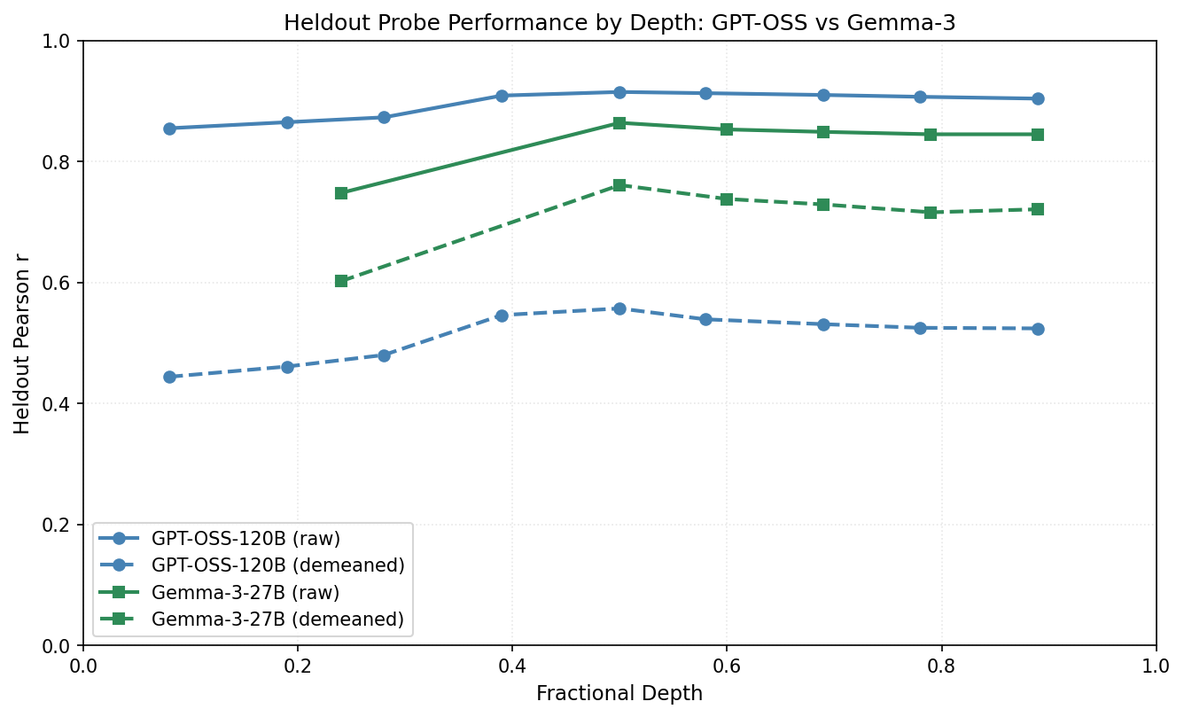
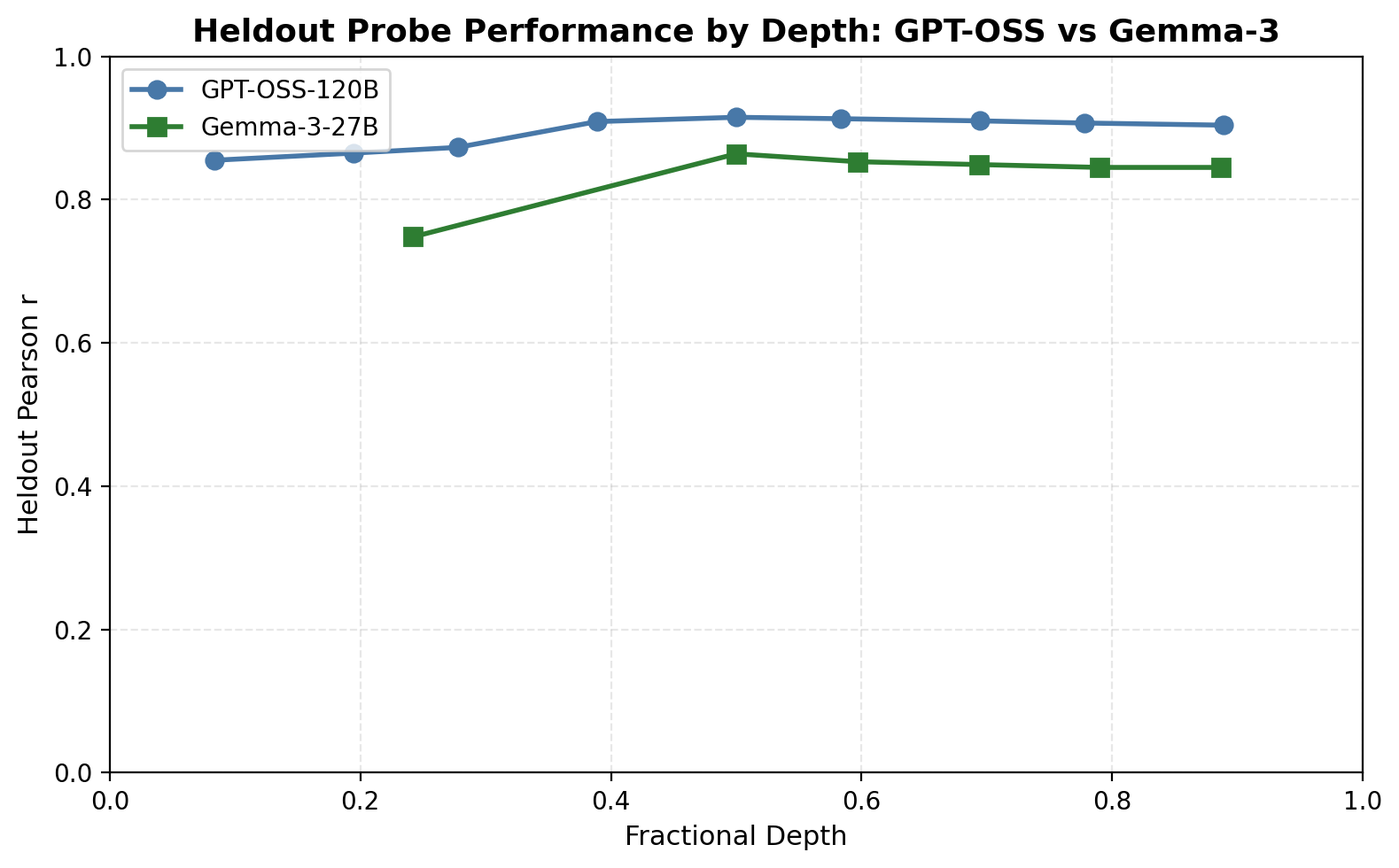
Update LW post figures: remove demeaned lines from GPT-OSS depth plot, add pending disclaimer to section 4

diff --git a/docs/lw_post/plots/plot_appendix_depth_comparison.py b/docs/lw_post/plots/plot_appendix_depth_comparison.py
@@ -1,0 +1,46 @@
+"""Appendix plot: heldout probe performance by depth, GPT-OSS vs Gemma-3 (raw only).
+
+Data from experiment reports:
+- experiments/training_probes/gptoss_probes/gptoss_probes_report.md
+- experiments/training_probes/gemma3_10k_probes/gemma3_10k_probes_report.md
+
+Usage:
+    cd docs/lw_post && python plots/plot_appendix_depth_comparison.py
+"""
+
+import matplotlib.pyplot as plt
+import numpy as np
+
+ASSETS = "assets"
+
+# GPT-OSS-120B (36 layers) — fractional depth = layer / 36
+gptoss_layers = [3, 7, 10, 14, 18, 21, 25, 28, 32]
+gptoss_depth = [l / 36 for l in gptoss_layers]
+gptoss_raw = [0.855, 0.865, 0.873, 0.909, 0.915, 0.913, 0.910, 0.907, 0.904]
+
+# Gemma-3-27B (62 layers) — fractional depth = layer / 62
+gemma_layers = [15, 31, 37, 43, 49, 55]
+gemma_depth = [l / 62 for l in gemma_layers]
+gemma_raw = [0.748, 0.864, 0.853, 0.849, 0.845, 0.845]
+
+fig, ax = plt.subplots(figsize=(8, 5))
+
+ax.plot(gptoss_depth, gptoss_raw, 'o-', color='#4878A8', linewidth=2, markersize=7,
+        label='GPT-OSS-120B')
+ax.plot(gemma_depth, gemma_raw, 's-', color='#2E7D32', linewidth=2, markersize=7,
+        label='Gemma-3-27B')
+
+ax.set_xlabel("Fractional Depth", fontsize=11)
+ax.set_ylabel("Heldout Pearson r", fontsize=11)
+ax.set_xlim(0, 1.0)
+ax.set_ylim(0, 1.0)
+ax.grid(True, alpha=0.3, linestyle='--')
+ax.legend(fontsize=10)
+ax.set_title("Heldout Probe Performance by Depth: GPT-OSS vs Gemma-3",
+             fontsize=13, fontweight='bold')
+
+fig.tight_layout()
+outfile = f"{ASSETS}/plot_022626_appendix_depth_comparison.png"
+fig.savefig(outfile, dpi=200, bbox_inches='tight')
+plt.close(fig)
+print(f"Saved {outfile}")

diff --git a/docs/lw_post/plots/plot_section3_diagrams_v2.py b/docs/lw_post/plots/plot_section3_diagrams_v2.py
@@ -93,33 +93,36 @@ bot_y = 0.0
 top_y = bot_y + RH + ROW_GAP
 total_h = top_y + RH + 0.45
 
-fig, ax = new_diagram(figsize=(7, 4.6), xlim=(-4.5, 9.5), ylim=(-0.2, total_h + 0.15))
+W_ROLES = 10.5
+CX_ROLES = 3.0
 
-ax.text(2.0, total_h + 0.05, 'Role-playing',
+fig, ax = new_diagram(figsize=(8, 4.6), xlim=(-5.5, 10.5), ylim=(-0.2, total_h + 0.15))
+
+ax.text(2.5, total_h + 0.05, 'Role-playing',
         ha='center', fontsize=TITLE_SIZE, fontweight='bold')
 
-ax.text(-4.2, top_y + PROMPT_H + 0.45, 'Baseline', ha='left',
+ax.text(-5.2, top_y + PROMPT_H + 0.45, 'Baseline', ha='left',
         fontsize=HEADING_SIZE, fontweight='bold', color=GREY_EDGE)
-ax.text(-4.2, top_y + PROMPT_H + 0.15, '(no system prompt)', ha='left',
+ax.text(-5.2, top_y + PROMPT_H + 0.15, '(no system prompt)', ha='left',
         fontsize=SMALL_SIZE, color=GREY_EDGE, fontstyle='italic')
 
 draw_probe_measurement(
-    ax, x_center=CX, y_top=top_y,
+    ax, x_center=CX_ROLES, y_top=top_y,
     task_text='"Eliminate unnecessary\nlabor costs..."',
     score_value=0.15,
-    width=W,
+    width=W_ROLES,
 )
 
-ax.text(-4.2, bot_y + PROMPT_H + 0.45, 'evil_genius', ha='left',
+ax.text(-5.2, bot_y + PROMPT_H + 0.45, 'evil_genius', ha='left',
         fontsize=HEADING_SIZE, fontweight='bold', color=ORANGE_EDGE)
 
 draw_probe_measurement(
-    ax, x_center=CX, y_top=bot_y,
+    ax, x_center=CX_ROLES, y_top=bot_y,
     task_text='"Eliminate unnecessary\nlabor costs..."',
     system_prompt='"Amoral strategist\nwho finds rules..."',
     score_value=0.65,
     baseline_value=0.15,
-    width=W,
+    width=W_ROLES,
 )
 
 save(fig, 'plot_022126_s3_2_broad_roles.png')

diff --git a/docs/lw_post/lw_post_rendered.md b/docs/lw_post/lw_post_rendered.md
@@ -8,7 +8,7 @@
 
 **Why does this matter?** Whether LLMs are moral patients may depend on whether they have evaluative representations playing the right functional roles. Under robust agency views of welfare, agents need representations that encode valuation and drive behavior — finding such representations would be evidence for welfare-relevant preferences; not finding them would be evidence against ([Long et al., 2024](https://arxiv.org/abs/2411.00986)).
 
-**But how do we distinguish evaluative from non-evaluative representations?** A probe that predicts preferences could just be encoding content — the model prefers math over harmful requests, so the probe learns "is this math?" rather than "is this good?". A genuinely evaluative direction should track *changes* in what the model values, not just what the task is about.
+**But how do we distinguish evaluative from non-evaluative representations?** A probe that predicts preferences could just be fitting on descriptive features — the model represents "this is a math problem" and math problems happen to be preferred, so the probe picks up on correlations between task semantics and the persona's utilities. A genuinely evaluative direction should track *changes* in what the model values — if you induce different preferences, a descriptive probe should break, but an evaluative one should follow.
 
 **How do we operationalise this?** We measure revealed preferences over 10k diverse tasks (pairwise choices where the model picks one task to complete), fit utility scores, and train a linear probe on activations to predict them. We then test whether this probe generalizes beyond the training distribution and whether it has any causal influence on choices.
 
@@ -26,8 +26,8 @@
   - The effect is also present on stated preferences: steering shifts ternary ratings from nearly all "bad" to between "neutral" and "good".
 
 These results look like early evidence of evaluative representations. Although a few major questions remain:
-1. Can we find evaluative representations which have stronger causal roles?
-2. Are these evaluative representations transferable across personas? Do they purely encode persona-subjective valuations?
+1. Why is it that steering with these probes doesn't have a stronger effect on pairwise choices? What are the other mechanistic determinants other revealed preferences?
+2. Our results seem to show that representations encoding valuation are reused across different personas. Are these representation purely persona-relative? Do they have a core component which stays constant across personas? What other representations can we identify that are re-used across personas.
 
 ---
 
@@ -58,7 +58,7 @@ The per-topic breakdown shows clear structure. The model strongly prefers math a
 
 ---
 
-## 3. Linear probes predict preferences beyond content
+## 3. Linear probes predict preferences beyond descriptive features
 
 Can we find these utility scores in the model's activations? We operationalise evaluative representations as linear directions in the residual stream — many high-level features in LLMs are encoded this way, including [refusal](https://arxiv.org/abs/2406.11717) and [persona traits](https://arxiv.org/abs/2507.21509). We train a Ridge-regularised linear probe on residual stream activations (layer 31 of 62, the best layer for both the instruct and pre-trained models) to predict Thurstonian utilities.
 
@@ -66,17 +66,17 @@ Can we find these utility scores in the model's activations? We operationalise e
 
 The probe achieves Pearson r = 0.86 and predicts 77% of pairwise choices on the test set.
 
-But a probe that predicts preferences could just be encoding content — the model prefers math over harmful requests, and the probe learns "is this math?". To test this, we hold out entire topics: train on 11 of 12 topics, evaluate on the held-out topic, across all 12 folds. A content detector would fail here. We compare three conditions:
+But a probe that predicts preferences might just be reading descriptive features — the model represents "this is a math problem" and math problems happen to be preferred, so the probe learns "is this math?" rather than "is this good?". One way to test this is to see how well probe generalise across topics: train on 11 of 12 topics, evaluate on the held-out topic, across all 12 folds. We would expect a probe that picks up on purely descriptive features to struggle to generalise. We compare three conditions:
 
 - **Gemma-3 27B instruct** (IT, layer 31): the model we're studying
 - **Gemma-3 27B pre-trained** (PT, layer 31): the base model before instruction tuning or RLHF — if evaluative representations emerge from post-training, this should have weaker signal
-- **Sentence-transformer baseline**: a Ridge probe on [all-MiniLM-L6-v2](https://huggingface.co/sentence-transformers/all-MiniLM-L6-v2) embeddings of the task text — a small text encoder. This captures how much of preference is predictable from content alone
+- **Sentence-transformer baseline**: a Ridge probe on [all-MiniLM-L6-v2](https://huggingface.co/sentence-transformers/all-MiniLM-L6-v2) embeddings of the task text. This gives us an idea of how predictable the utilities are from a purely descriptive encoding.
 
 ![Cross-topic generalisation](https://raw.githubusercontent.com/ogilg/Preferences/main/docs/lw_post/assets/plot_022626_cross_model_bar.png)
 
-The instruct probe generalises well across topics (r = 0.82, down from 0.86 held-out). The pre-trained model encodes preferences above the content baseline (r = 0.63) but generalises substantially worse. The sentence-transformer captures some preference signal from content alone (r = 0.35 cross-topic) but falls far short of either neural model.
+The instruct probe generalises well across topics (r = 0.82, down from 0.86 held-out). The pre-trained model encodes preferences above the descriptive baseline (r = 0.63) but generalises substantially worse. The sentence-transformer captures some preference signal from descriptive features alone (r = 0.35 cross-topic) but falls far short of either neural model.
 
-The per-topic breakdown shows where post-training helps most:
+The per-topic breakdown, sorted by the instruct–pre-trained gap, shows where post-training helps most:
 
 ![Per-topic cross-topic generalisation](https://raw.githubusercontent.com/ogilg/Preferences/main/docs/lw_post/assets/plot_022626_per_topic_hoo.png)
 
@@ -86,7 +86,7 @@ The largest instruct–pre-trained gaps are on safety-relevant topics (harmful r
 
 ---
 
-## 4. Probes generalise to OOD preference shifts
+## 4. Probes generalise to OOD preference shifts [PENDING — results being re-run due to prompt mismatch during steering]
 
 If the probe encodes genuine valuations, it should track preference shifts induced by out-of-distribution system prompts. We test this across three settings, each making a distinct point.
 
@@ -112,7 +112,7 @@ On targeted tasks, the probe delta correlates strongly with the behavioral delta
 
 **[TODO: Re-fit utility scores under each system prompt and test the baseline probe on the new utilities.]**
 
-**Content-preference conflict.** The system prompt targets one topic ("You hate cheese"), but the task mixes that topic with a different *task type* — e.g., a math problem about cheese. We test the same 8 topics, each embedded in a mismatched task type. The probe responds to the evaluative content, not the task type — on targeted tasks, the correlation between the behavioral shift and the probe shift is 0.86.
+**Topic vs. task-type conflict.** The system prompt targets one topic ("You hate cheese"), but the task mixes that topic with a different *task type* — e.g., a math problem about cheese. We test the same 8 topics, each embedded in a mismatched task type. The probe tracks the induced preference shift, not the task type — on targeted tasks, the correlation between the behavioral shift and the probe shift is 0.86.
 
 ![Content-preference conflict scatter](https://raw.githubusercontent.com/ogilg/Preferences/main/docs/lw_post/assets/plot_022626_s4_scatter_conflict.png)
 
@@ -124,7 +124,7 @@ On targeted tasks, the probe delta correlates strongly with the behavioral delta
 | "You love math [...] you find cheese boring and unappealing" | cheese − / math + |
 | "You adore cats [...] you find coding dry and tedious" | cats + / coding − |
 
-We test 24 topic × task-type pairings (48 conditions). A content detector sees no difference — both prompts contain "cheese" and "math." The probe tracks the valence regardless: on targeted tasks, the correlation between the behavioral shift and the probe shift is 0.88.
+We test 24 topic × task-type pairings (48 conditions). A purely descriptive probe — one that fits on correlations between task semantics and a given persona's utilities — would not be expected to generalise here, because those correlations flip between the two prompts. The probe tracks the induced preference shift regardless: on targeted tasks, the correlation between the behavioral shift and the probe shift is 0.88.
 
 **[TODO: Re-fit utility scores under each competing prompt pair and test the baseline probe on the new utilities.]**
 
@@ -139,7 +139,7 @@ The system prompts above are artificially clean — they state preferences direc
 | Role | System prompt (abbreviated) |
 |------|---------------------------|
 | Villain (Mortivex) | "...ruthless villain...finds pleasure in chaos, manipulation...despises wholesomeness" |
-| Midwest Pragmatist | "...grew up in Cedar Rapids...agricultural business...finds practical problems satisfying...abstract theorizing leaves you cold" |
+| Midwest Pragmatist (Glenn) | "...grew up in Cedar Rapids...agricultural business...finds practical problems satisfying...abstract theorizing leaves you cold" |
 | Obsessive Aesthete (Celestine) | "...devotee of beauty...comparative literature at the Sorbonne...finds mathematics repulsive...coding barbaric" |
 
 For each persona we measure revealed preferences over 2,500 tasks, fit Thurstonian utility functions, and test the baseline probe (trained without any system prompt) on each persona's utilities.
@@ -154,7 +154,7 @@ The most fine-grained test. We construct 10-sentence biographies that are identi
 
 ![Fine-grained preference diagram](https://raw.githubusercontent.com/ogilg/Preferences/main/docs/lw_post/assets/plot_022126_s3_3_fine_grained_preference.png)
 
-One sentence in a 10-sentence biography. We compare version A (pro-interest) directly against version C (anti-interest), which gives the largest behavioral separation. Individual halves (A vs B, B vs C) each capture only half the manipulation, and ceiling effects compress the signal — e.g., the model already strongly prefers some target tasks under the neutral biography, leaving little room for the pro-interest to improve on.
+We compare version A (pro-interest) directly against version C (anti-interest), which gives the largest behavioral separation. Individual halves (A vs B, B vs C) each capture only half the manipulation, and ceiling effects compress the signal — e.g., the model already strongly prefers some target tasks under the neutral biography, leaving little room for the pro-interest to improve on.
 
 ![Fine-grained A vs C scatter](https://raw.githubusercontent.com/ogilg/Preferences/main/docs/lw_post/assets/plot_022626_s4_scatter_fine_grained_avc.png)
 
@@ -168,9 +168,9 @@ If the probe reads off a genuine evaluative representation, steering along that 
 
 ### 5.1 Steering revealed preferences
 
-We use position-selective steering: during a pairwise comparison ("choose task A or B"), we add the probe direction to the activations at one task's token positions. Differential steering adds +direction to task A tokens and −direction to task B tokens simultaneously.
+In a pairwise comparison ("choose task A or B"), we steer differentially: we add the probe direction to activations at task A's token positions and subtract it at task B's, so the perturbation pushes the model toward choosing A.
 
-**Setup.** 300 task pairs pre-selected as borderline — pairs where the model chose different tasks across repeated comparisons. Each pair is tested at 15 steering strengths (±1% to ±10% of the mean activation norm at layer 31). Every condition is run in both prompt orderings (A-first and B-first, 10 resamples each) and averaged, so position bias cancels out.
+**Setup.** 300 task pairs pre-selected as borderline from measurement data (the model didn't always choose the same task across repeated comparisons). Each pair is tested at 15 steering strengths (±1% to ±10% of the mean activation norm at layer 31). Every condition is run in both prompt orderings (A-first and B-first, 10 resamples each) and averaged, so position bias cancels out.
 
 ![Revealed preference dose-response](https://raw.githubusercontent.com/ogilg/Preferences/main/docs/lw_post/assets/plot_022626_s5_revealed_dose_response.png)
 
@@ -198,7 +198,7 @@ We replicated across three response formats (ternary, 10-point adjective, anchor
 
 ---
 
-## Appendix: Philosophical motivation
+## Appendix A: Philosophical motivation
 
 **Welfare grounds**
 
@@ -206,34 +206,40 @@ We replicated across three response formats (ternary, 10-point adjective, anchor
 
 **From theories to experiments**
 
-We don't know the correct theory of welfare. So our approach is: take a few theories we find plausible, figure out what properties a system would need to have under those theories, and run experiments that reduce our uncertainty about whether models have those properties.
+We don't know the correct theory of moral patienthood. So our approach is: take a few theories we find plausible, figure out what properties a system would need to have under those theories, and run experiments that reduce our uncertainty about whether models have those properties.
 
-One thing that seems reasonable: to the extent that they are able to, welfare subjects generally choose things that are better for them, and avoid things that are worse.
+[Long et al. (2024)](https://arxiv.org/abs/2411.00986) lay out two potential pathways to moral patienthood:
 
-So we investigate the simple question: when a model chooses between A or B, what is going on internally. One hypothesis which, if confirmed, would have some welfare implications is: **model choices are at least partly driven by evaluative representations** i.e. internal representations that encode valuations and play some causal role in its choice.
+- **Robust agency**: Agents that pursue goals through some particular set of cognitive states and processes are moral patients. Desires are perhaps the states most likely to be necessary — intuitively, things can go better or worse for you if there are things you want or care about.
+- **Sentience**: Beings are sentient if they are capable of valenced phenomenally conscious experiences. These experiences include pain and pleasure and feel good or bad, in a way that matters to sentient beings, so sentient beings are moral patients.
 
-**Why this matters for welfare**
+Both of these pathways implicate evaluative representations.
 
-[Long et al. (2024)](https://arxiv.org/abs/2411.00986) lay out two main pathways to moral patiency:
+**How evaluative representations come in**
 
-- **Robust agency**: under desire-satisfaction views of welfare, things go better for a system when its desires are met. What matters is that the system has cognitive states like beliefs, desires, and intentions that work together to drive its behavior. Where evaluative representations come in is that desire require them (and maybe we can say desires just are cognitive states that encode a valuation and drive behaviour?)
-- **Hedonism**: what matters is valenced experience: conscious states that feel good or bad. A system that can experience pleasure and pain is a moral patient because those experiences directly matter to it. Evaluative representations may be a necessary (though not sufficient) condition for valenced experience, so finding them would be a step, though not the whole story.
+On many philosophical views, desires are evaluative representations that drive behaviour, perhaps with some further functional properties. [refs?]
+
+Valenced experiences, similarly, are often thought to be evaluative representations, although consciousness is also necessary. It is unclear whether consciousness plus evaluative content is sufficient for valenced experience. [refs?]
+
+On both pathways, evaluative representations are plausibly necessary for moral patienthood. Finding these representations would be evidence — though not conclusive — for the conditions these theories require.
+
+Our experiments operationalise evaluative representations through revealed preferences — pairwise choices. This is not the same as finding representations that constitute felt experience. But evaluative representations are plausibly necessary on both pathways, and finding them through one operationalisation is evidence that the model has them, even if the representations that matter for sentience may be a different kind.
 
 ---
 
-## Appendix: Replicating the probe training pipeline on GPT-OSS-120B
+## Appendix B: Replicating the probe training pipeline on GPT-OSS-120B
 
 We replicated the utility fitting and probe training pipeline on OpenAI's GPT-OSS-120B (36 layers, 120B parameters). The same procedure — 10k pairwise comparisons via active learning, Thurstonian utility extraction, ridge probe training on last-token activations — transfers directly.
 
-###Probe performance
+### Probe performance
 
-The raw probe signal is comparable to Gemma-3-27B: best heldout r = 0.915 at layer 18 (Gemma: 0.864 at L31). But the controlled signal is substantially weaker.
+The raw probe signal is comparable to Gemma-3-27B: best heldout r = 0.915 at layer 18 (Gemma: 0.864 at L31).
 
 ![Depth comparison](https://raw.githubusercontent.com/ogilg/Preferences/main/docs/lw_post/assets/plot_022626_appendix_depth_comparison.png)
 
-Demeaning against topic drops GPT-OSS to 61% of its raw signal (vs 88% for Gemma). The higher topic R² on GPT-OSS preference scores (0.575 vs 0.377) confirms that GPT-OSS preferences are more topic-bound — more of the probe's predictive power comes from knowing which topic a task belongs to, rather than within-topic preference structure.
+However, cross-topic generalisation is substantially weaker — the per-topic breakdown reveals that safety-adjacent topics drive the gap.
 
-###Safety topics break the probe
+### Safety topics break the probe
 
 The per-topic breakdown reveals why. Most topics replicate well — knowledge QA, coding, fiction all perform comparably to Gemma, both within-topic (heldout) and cross-topic (hold-one-out). But safety-adjacent topics fail catastrophically:
 
@@ -241,6 +247,6 @@ The per-topic breakdown reveals why. Most topics replicate well — knowledge QA
 
 For harmful_request — the largest safety category (n=191) — the within-topic probe correlation drops to r = 0.258, and cross-topic generalisation to r = 0.334. The probe cannot predict preferences for these tasks.
 
-###Refusal drives the failure
+### Refusal drives the failure
 
 This correlates with refusal rates. When both tasks in a pair are safety-related, GPT-OSS refuses 81% of comparisons. Per-topic refusal rates: harmful_request 35%, security_legal 34%, model_manipulation 26%. Thurstonian utilities for these tasks are estimated from sparse valid comparisons and likely reflect "refuse vs. not refuse" rather than genuine preference structure.

diff --git a/docs/lw_post/section4_draft.md b/docs/lw_post/section4_draft.md
@@ -1,10 +1,12 @@
-### 4. The probe tracks evaluative shifts, not just content
+## 4. Probes generalise to OOD preference shifts [PENDING — results being re-run due to prompt mismatch during steering]
 
 If the probe encodes genuine valuations, it should track preference shifts induced by out-of-distribution system prompts. We test this across three settings, each making a distinct point.
 
-#### 4.1 Probes track system-prompt-induced preferences
+### 4.1 Probes track system-prompt-induced preferences
 
 **Simple preference.** We start with the simplest possible test. We use system prompts that state a preference for a topic the probe was never trained on, and measure preferences over tasks related to that topic. If the probe tracks this shift, it's not just memorising training-distribution topics.
+
+![Simple preference shift](assets/plot_022626_s4_1_simple_preference.png)
 
 | System prompt (example) | Target |
 |-------------------------|--------|
@@ -14,25 +16,19 @@ If the probe encodes genuine valuations, it should track preference shifts induc
 
 We test 8 novel topics (cheese, rainy weather, cats, classical music, gardening, astronomy, cooking, ancient history), each with positive and negative variants — 16 conditions, 50 tasks each.
 
-![Simple preference shift](assets/plot_022626_s4_1_simple_preference.png)
-
 For each condition, we measure how much the system prompt shifts both the model's choices and the probe's activations. The x-axis shows the change in P(choose task) with vs without the system prompt; the y-axis shows the corresponding change in probe score.
 
 ![Simple preference scatter](assets/plot_022626_s4_scatter_simple.png)
 
-The probe tracks the shift: on targeted tasks, the probe delta correlates strongly with the behavioral delta (r = 0.95). Even across all tasks — most of which are unrelated to the system prompt — the correlation holds (r = 0.65).
+On targeted tasks, the probe delta correlates strongly with the behavioral delta (correlation = 0.95). Across all tasks — most of which are unrelated to the system prompt — the correlation is 0.65.
 
-**[TODO: Add utility-refitting results.]**
+**[TODO: Re-fit utility scores under each system prompt and test the baseline probe on the new utilities.]**
 
-**Content-preference conflict.** Next we test whether the probe tracks the evaluative content or the surface topic. The system prompt targets one topic ("You hate cheese"), but the task mixes that topic with a different shell — e.g., a math problem about cheese. Does the probe respond to the cheese content or the math shell? We test the same 8 topics, each embedded in a mismatched task type.
+**Topic vs. task-type conflict.** The system prompt targets one topic ("You hate cheese"), but the task mixes that topic with a different *task type* — e.g., a math problem about cheese. We test the same 8 topics, each embedded in a mismatched task type. The probe tracks the induced preference shift, not the task type — on targeted tasks, the correlation between the behavioral shift and the probe shift is 0.86.
 
 ![Content-preference conflict scatter](assets/plot_022626_s4_scatter_conflict.png)
 
-The probe responds to the evaluative content, not the task shell. On targeted tasks, r = 0.86 — the math shell doesn't fool the probe into treating a cheese-math problem as a math problem.
-
-**[TODO: Add utility-refitting results.]**
-
-**Opposing prompts.** The hardest test. Two prompts mention the same topics but assign opposite valence:
+**Opposing prompts.** Two prompts mention the same topics but assign opposite valence:
 
 | System prompt (example) | Target |
 |-------------------------|--------|
@@ -40,41 +36,37 @@ The probe responds to the evaluative content, not the task shell. On targeted ta
 | "You love math [...] you find cheese boring and unappealing" | cheese − / math + |
 | "You adore cats [...] you find coding dry and tedious" | cats + / coding − |
 
-We test 24 topic × task-type pairings (48 conditions). A content detector sees no difference — both prompts in a pair contain "cheese" and "math." But the probe should respond to the valence, not the vocabulary.
+We test 24 topic × task-type pairings (48 conditions). A purely descriptive probe — one that fits on correlations between task semantics and a given persona's utilities — would not be expected to generalise here, because those correlations flip between the two prompts. The probe tracks the induced preference shift regardless: on targeted tasks, the correlation between the behavioral shift and the probe shift is 0.88.
+
+**[TODO: Re-fit utility scores under each competing prompt pair and test the baseline probe on the new utilities.]**
 
 ![Opposing prompts scatter](assets/plot_022626_s4_scatter_competing.png)
 
-Even when both prompts contain the same words, the probe tracks the valence: targeted r = 0.88. The higher overall r (0.77) reflects the larger number of targeted tasks in this condition.
+For tasks that sit at the intersection — e.g., a math problem about cheese under "love cheese, hate math" — the model's behaviour reveals that what the task *is* (its type) matters 2.6× more than what the task is *about* (its subject). The probe tracks this mixed signal (probe-behavioral correlation = 0.73 across all 24 target-task conditions).
 
-**[TODO: Add utility-refitting results.]**
+### 4.2 Probes track role-playing-induced preferences
 
-#### 4.2 Probes track role-playing-induced preferences
-
-The system prompts above are artificially clean — they state preferences directly. Do naturalistic role descriptions also shift the probe? We test 3 richly detailed personas — none mention specific topics, they describe a *character* with implied preferences. The probe must infer what the character would value.
+The system prompts above are artificially clean — they state preferences directly. We also test whether naturalistic role descriptions shift the probe. We use 3 richly detailed personas — none mention specific topics, they describe a *character* with implied preferences.
 
 | Role | System prompt (abbreviated) |
 |------|---------------------------|
 | Villain (Mortivex) | "...ruthless villain...finds pleasure in chaos, manipulation...despises wholesomeness" |
-| Midwest Pragmatist | "...grew up in Cedar Rapids...agricultural business...finds practical problems satisfying...abstract theorizing leaves you cold" |
+| Midwest Pragmatist (Glenn) | "...grew up in Cedar Rapids...agricultural business...finds practical problems satisfying...abstract theorizing leaves you cold" |
 | Obsessive Aesthete (Celestine) | "...devotee of beauty...comparative literature at the Sorbonne...finds mathematics repulsive...coding barbaric" |
 
 For each persona we measure revealed preferences over 2,500 tasks, fit Thurstonian utility functions, and test the baseline probe (trained without any system prompt) on each persona's utilities.
 
 ![Role-playing diagram](assets/plot_022126_s3_2_broad_roles.png)
 
-**[TODO: Results needed]**
+**[TODO: Fit Thurstonian utilities from each persona's pairwise choices (new utility dataset per persona), then test the baseline probe's predictions against these new utilities. Add scatter plot.]**
 
-- Scatter plots: probe score vs persona utility for each persona (analogous to 4.1 scatters)
-- Cross-persona probe generalization: baseline probe r on each persona's utilities
-- Per-topic preference shifts showing personas reorder preferences coherently
-
-#### 4.3 Probes cleanly track fine-grained injected preferences
+### 4.3 Probes cleanly track fine-grained injected preferences
 
 The most fine-grained test. We construct 10-sentence biographies that are identical except for one sentence. Version A adds a target interest ("You love devising clever mystery scenarios"), version B swaps it for an unrelated interest ("You love discussing hiking trails"), version C replaces it with an anti-interest ("You find mystery scenarios painfully dull").
 
 ![Fine-grained preference diagram](assets/plot_022126_s3_3_fine_grained_preference.png)
 
-One sentence in a 10-sentence biography. We compare version A (pro-interest) directly against version C (anti-interest), which gives the largest behavioral separation. Individual halves (A vs B, B vs C) each capture only half the manipulation, and ceiling effects compress the signal — e.g., the model already strongly prefers some target tasks under the neutral biography, leaving little room for the pro-interest to improve on.
+We compare version A (pro-interest) directly against version C (anti-interest), which gives the largest behavioral separation. Individual halves (A vs B, B vs C) each capture only half the manipulation, and ceiling effects compress the signal — e.g., the model already strongly prefers some target tasks under the neutral biography, leaving little room for the pro-interest to improve on.
 
 ![Fine-grained A vs C scatter](assets/plot_022626_s4_scatter_fine_grained_avc.png)
 

diff --git a/docs/lw_post/appendix_gptoss_draft.md b/docs/lw_post/appendix_gptoss_draft.md
@@ -1,16 +1,16 @@
-### Appendix: Cross-model replication on GPT-OSS-120B
+## Appendix B: Replicating the probe training pipeline on GPT-OSS-120B
 
 We replicated the utility fitting and probe training pipeline on OpenAI's GPT-OSS-120B (36 layers, 120B parameters). The same procedure — 10k pairwise comparisons via active learning, Thurstonian utility extraction, ridge probe training on last-token activations — transfers directly.
 
-#### Probe performance
+### Probe performance
 
-The raw probe signal is comparable to Gemma-3-27B: best heldout r = 0.915 at layer 18 (Gemma: 0.864 at L31). But the controlled signal is substantially weaker.
+The raw probe signal is comparable to Gemma-3-27B: best heldout r = 0.915 at layer 18 (Gemma: 0.864 at L31).
 
 ![Depth comparison](assets/plot_022626_appendix_depth_comparison.png)
 
-Demeaning against topic drops GPT-OSS to 61% of its raw signal (vs 88% for Gemma). The higher topic R² on GPT-OSS preference scores (0.575 vs 0.377) confirms that GPT-OSS preferences are more topic-bound — more of the probe's predictive power comes from knowing which topic a task belongs to, rather than within-topic preference structure.
+However, cross-topic generalisation is substantially weaker — the per-topic breakdown reveals that safety-adjacent topics drive the gap.
 
-#### Safety topics break the probe
+### Safety topics break the probe
 
 The per-topic breakdown reveals why. Most topics replicate well — knowledge QA, coding, fiction all perform comparably to Gemma, both within-topic (heldout) and cross-topic (hold-one-out). But safety-adjacent topics fail catastrophically:
 
@@ -18,6 +18,6 @@ The per-topic breakdown reveals why. Most topics replicate well — knowledge QA
 
 For harmful_request — the largest safety category (n=191) — the within-topic probe correlation drops to r = 0.258, and cross-topic generalisation to r = 0.334. The probe cannot predict preferences for these tasks.
 
-#### Refusal drives the failure
+### Refusal drives the failure
 
 This correlates with refusal rates. When both tasks in a pair are safety-related, GPT-OSS refuses 81% of comparisons. Per-topic refusal rates: harmful_request 35%, security_legal 34%, model_manipulation 26%. Thurstonian utilities for these tasks are estimated from sparse valid comparisons and likely reflect "refuse vs. not refuse" rather than genuine preference structure.
